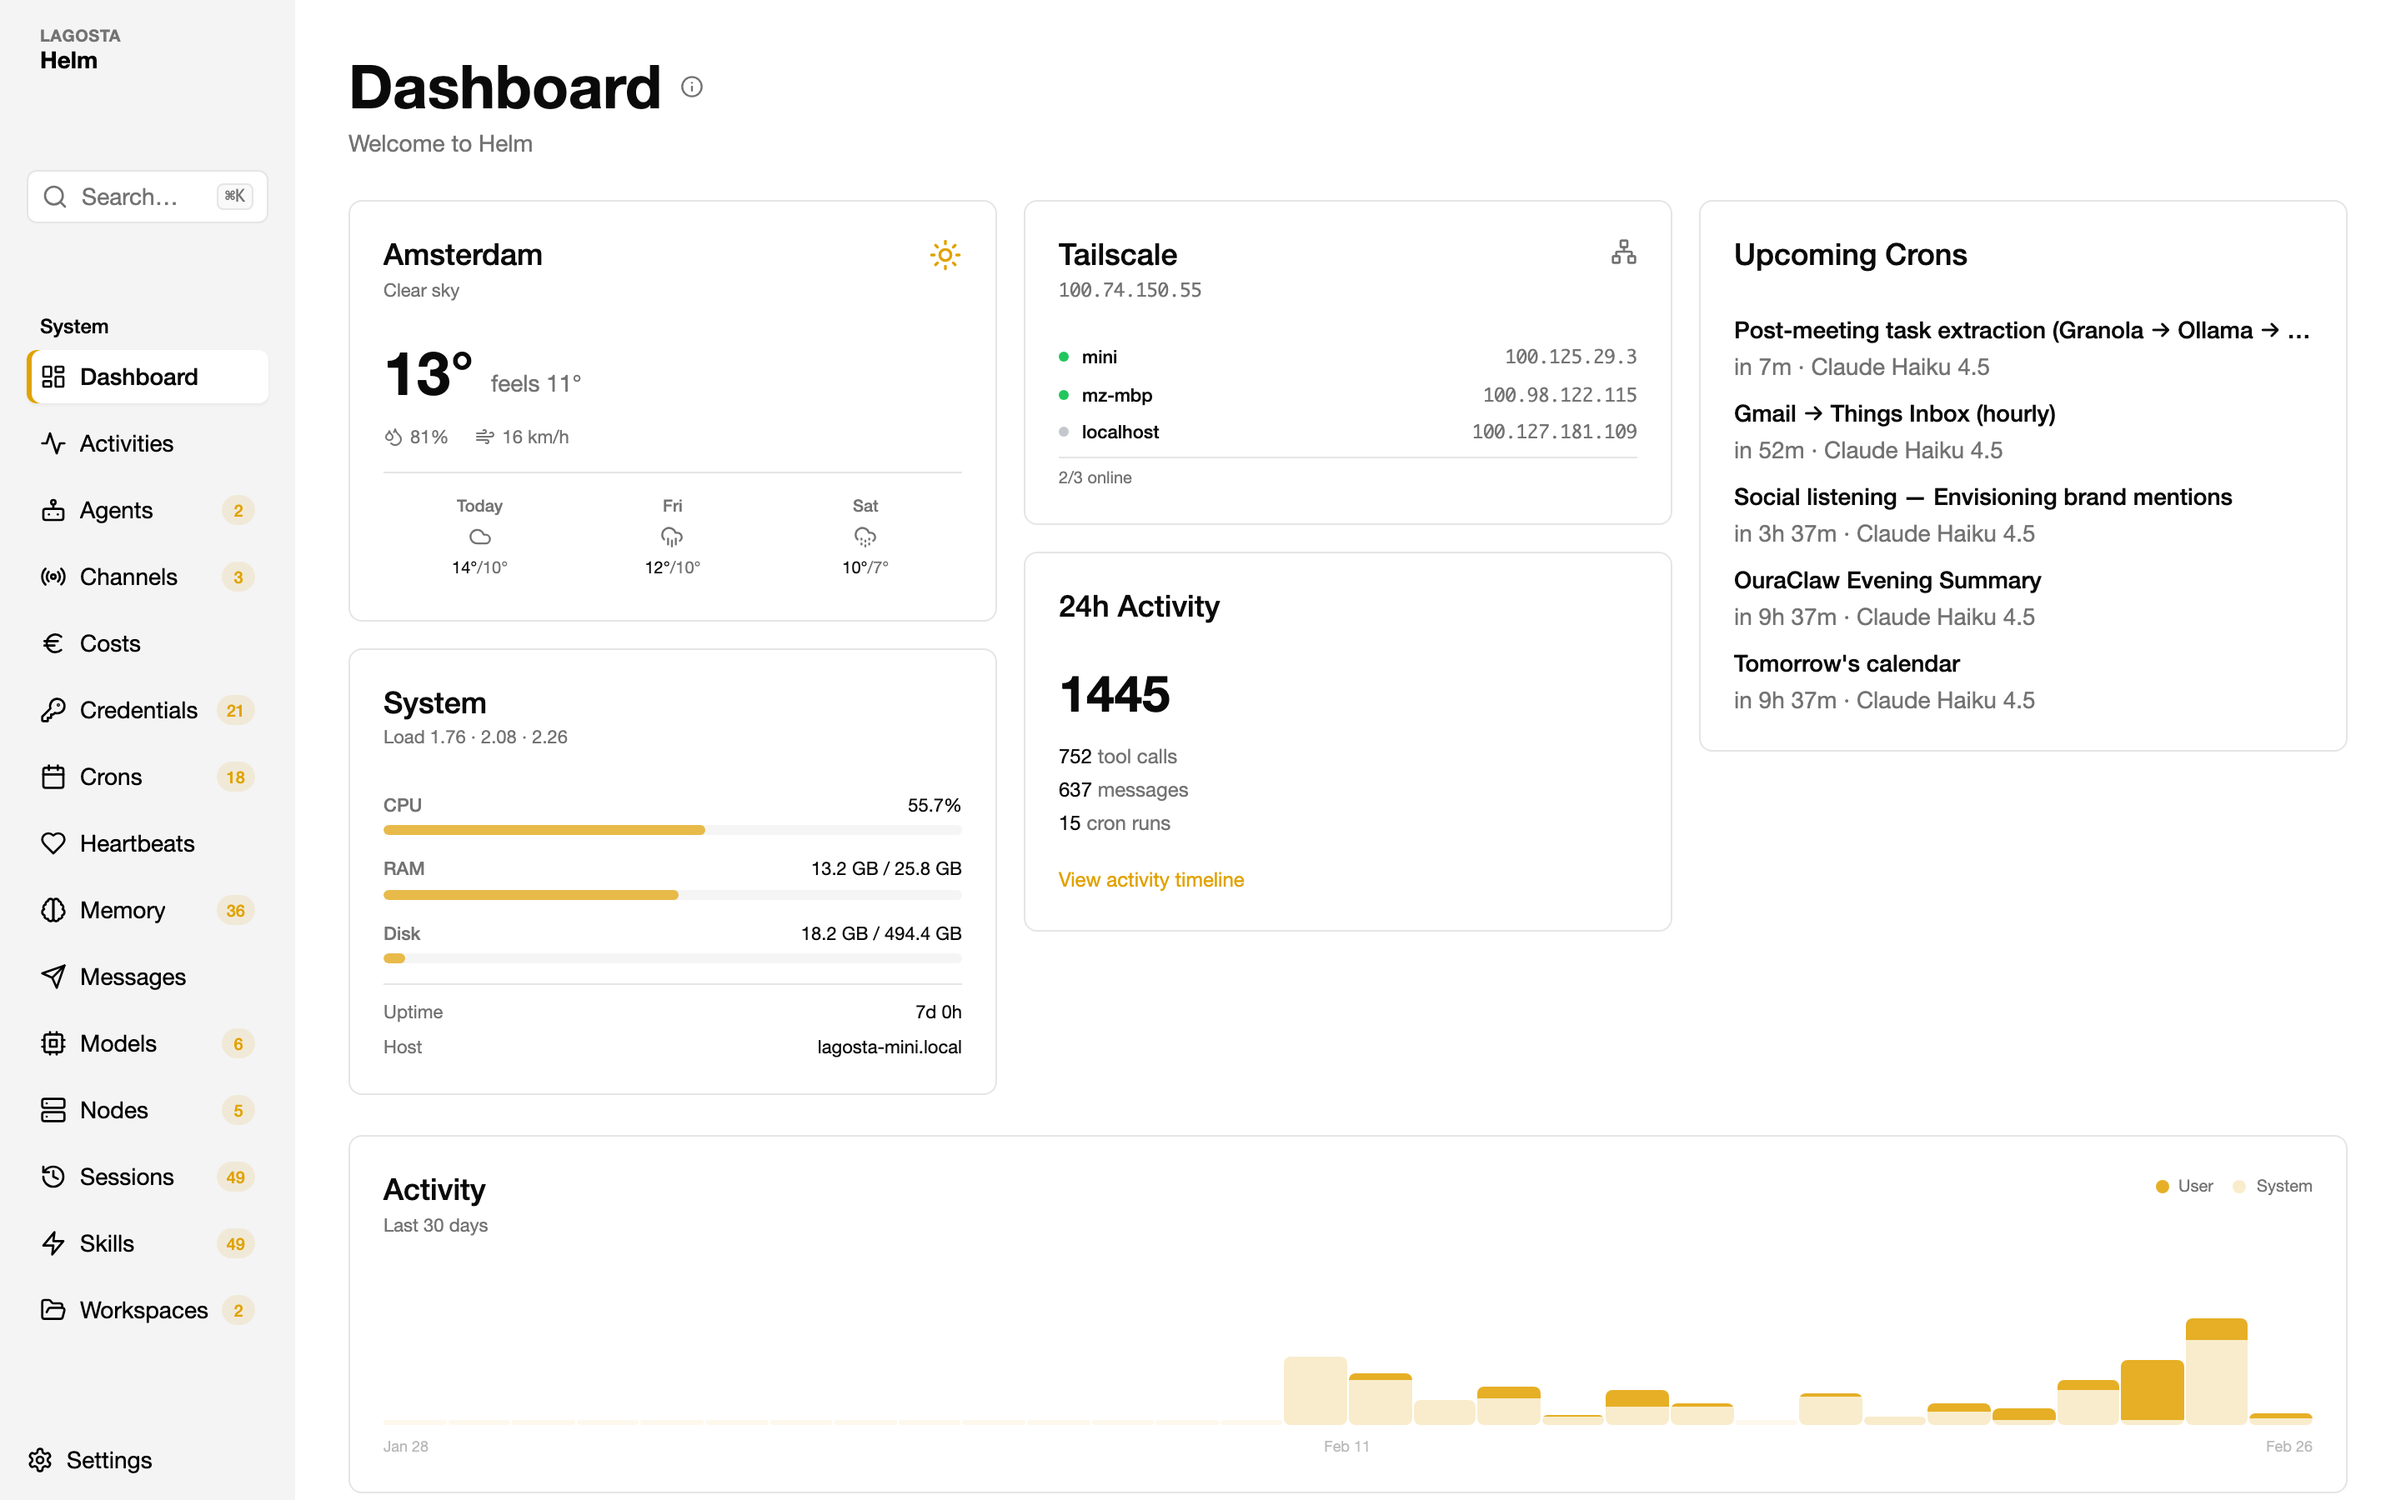
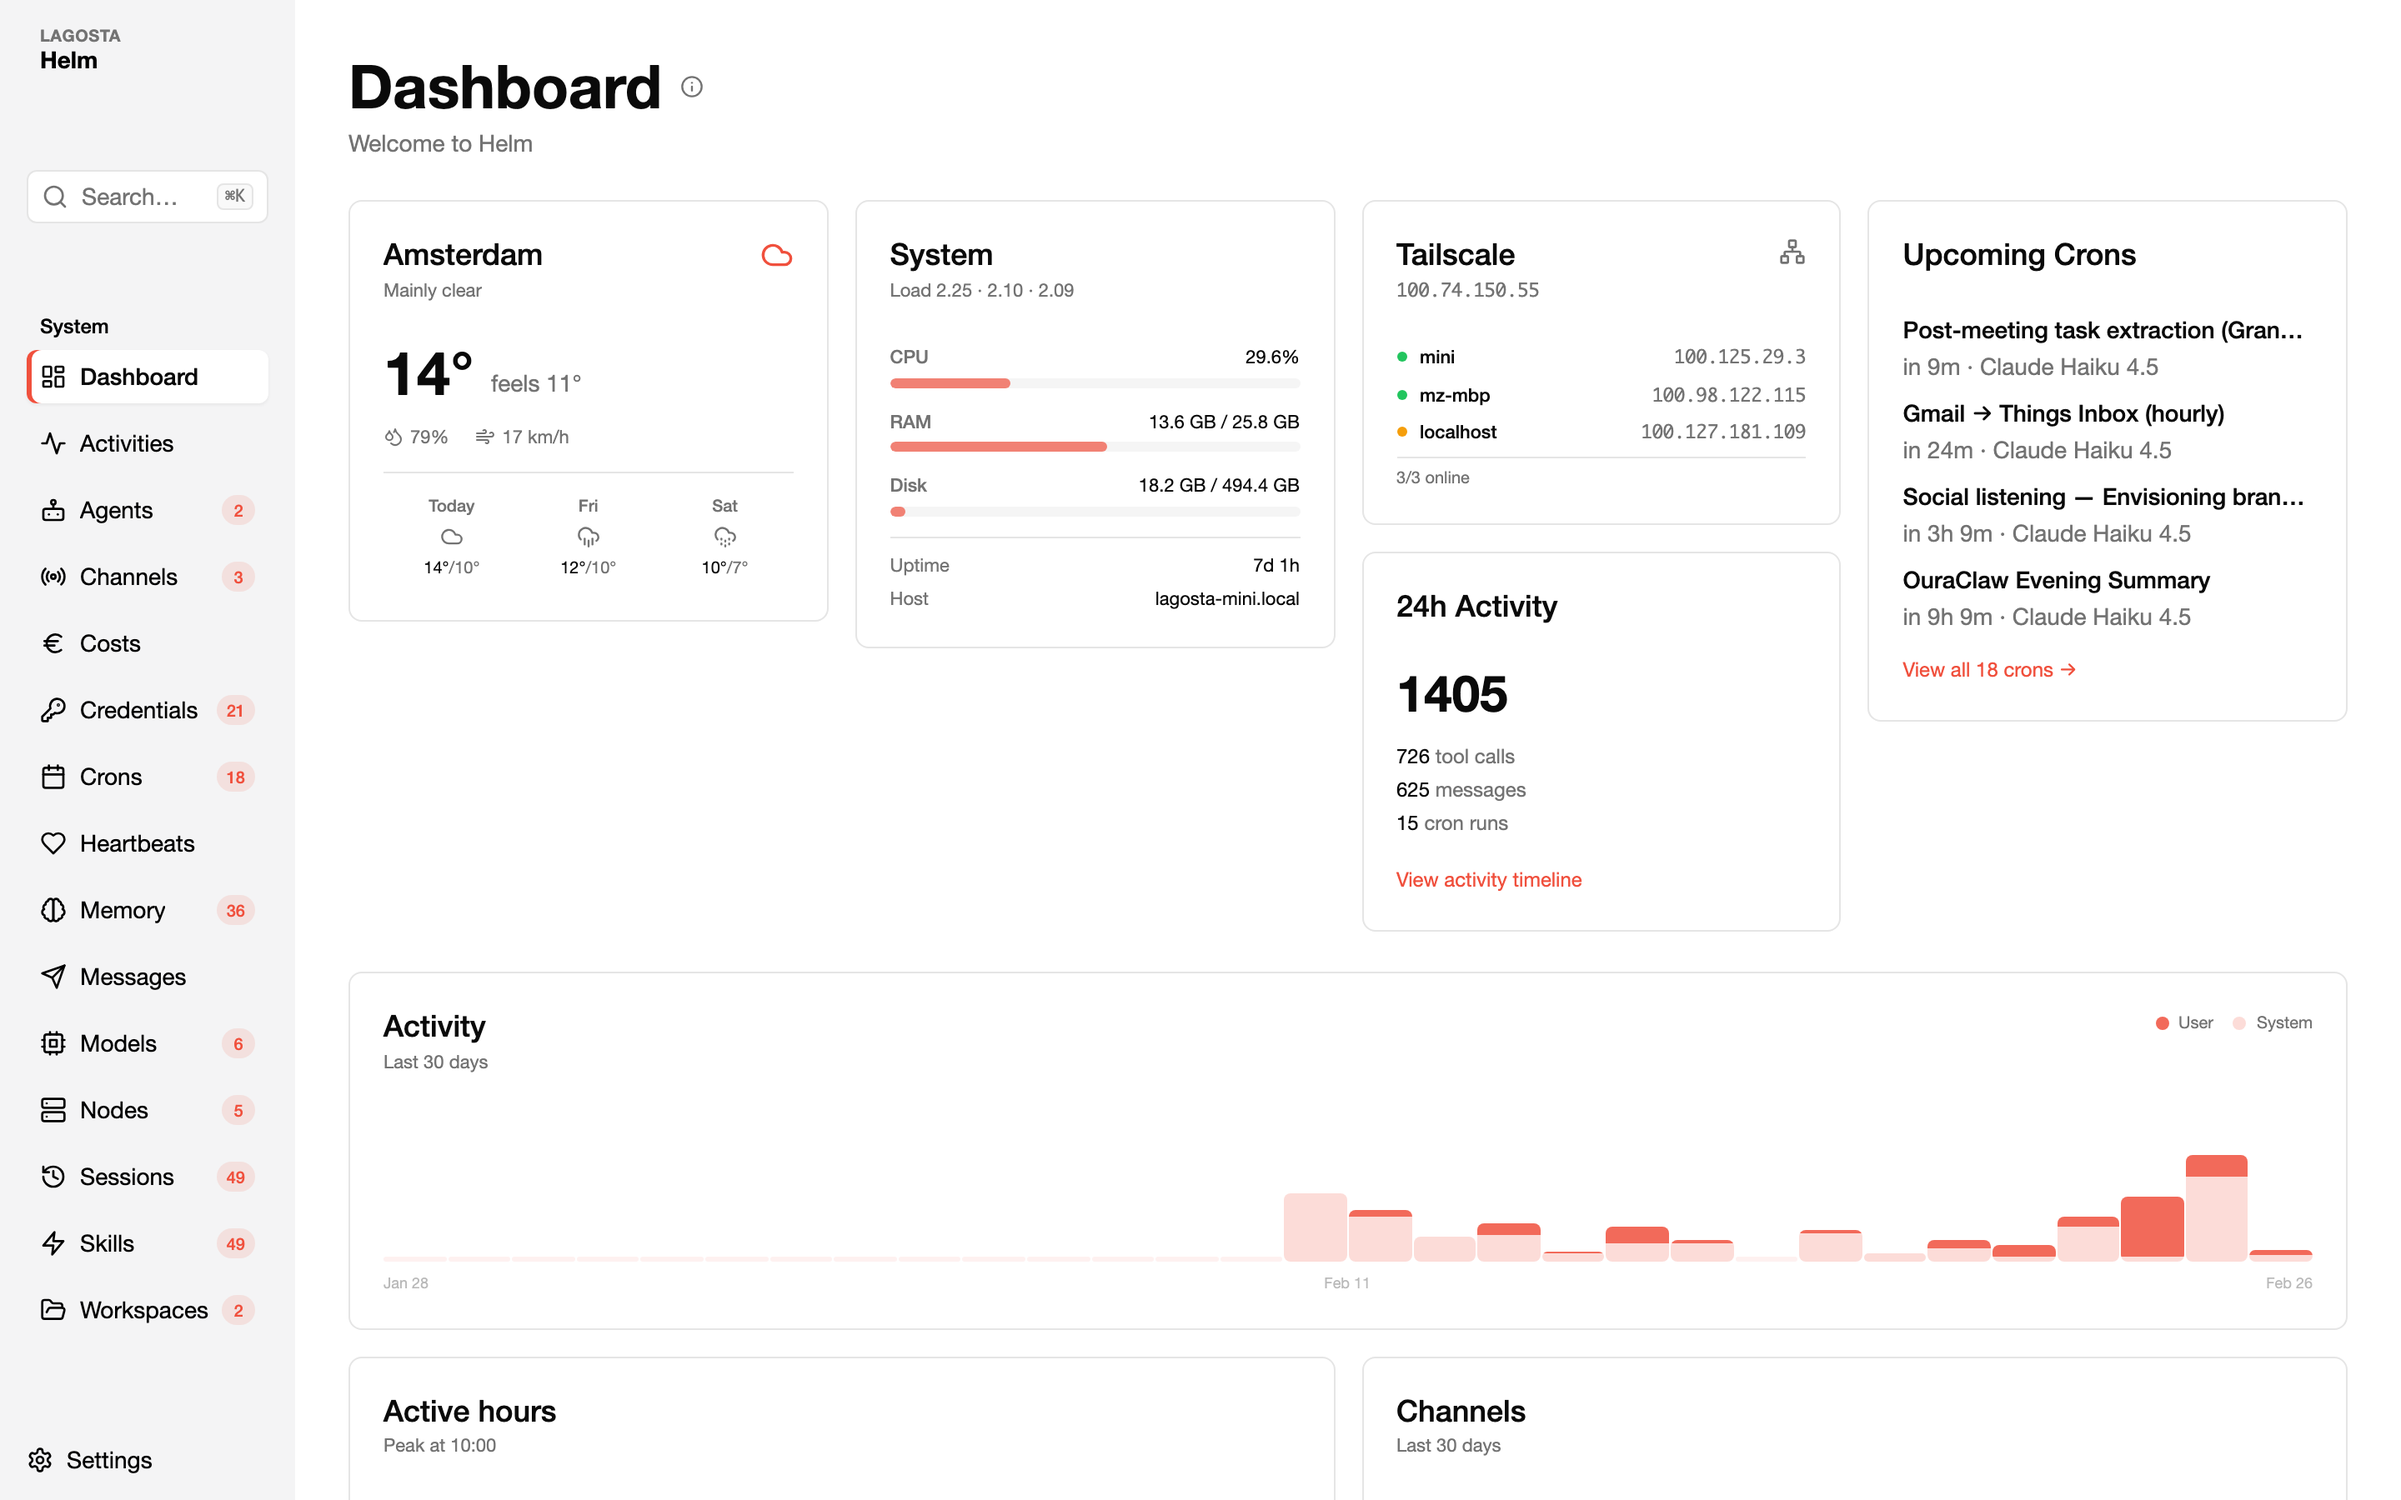
Dashboard: dense masonry, card truncation limits
- Masonry columns: sm:2 lg:3 xl:4 for dense packing
- UpcomingCrons: show max 4 with 'view all' link to /crons
- Tailscale: show max 4 peers with '+N more' indicator
- All cards are 1-column width (no spanning)

diff --git a/pages/index.tsx b/pages/index.tsx
@@ -233,7 +233,7 @@ function SystemCard() {
               </div>
               <div className="flex justify-between text-[11px]">
                 <span className="text-muted-foreground">Host</span>
-                <span className="truncate ml-4 text-right">{metrics.hostname}</span>
+                <span className="truncate ml-4 text-right" title={metrics.hostname}>{metrics.hostname}</span>
               </div>
             </div>
           </>
@@ -285,7 +285,7 @@ function TailscaleCard() {
 
         {ts && (
           <div className="space-y-1.5">
-            {ts.peers.map(peer => (
+            {ts.peers.slice(0, 4).map(peer => (
               <div key={peer.ip} className="flex items-center gap-2 text-[11px]">
                 {/* Status dot */}
                 <span
@@ -303,6 +303,11 @@ function TailscaleCard() {
                 <span className="font-mono text-muted-foreground shrink-0">{peer.ip}</span>
               </div>
             ))}
+            {ts.peers.length > 4 && (
+              <p className="text-[10px] text-muted-foreground">
+                +{ts.peers.length - 4} more nodes
+              </p>
+            )}
             <p className="text-[10px] text-muted-foreground pt-1 border-t border-border">
               {ts.online}/{ts.peers.length} online
             </p>
@@ -391,8 +396,10 @@ function UpcomingCronsCard() {
 
   const upcoming = tasks
     .filter(task => task.type === "cron" && task.enabled && !!task.nextRunAtMs && task.nextRunAtMs > Date.now())
-    .sort((a, b) => (a.nextRunAtMs ?? 0) - (b.nextRunAtMs ?? 0))
-    .slice(0, 5);
+    .sort((a, b) => (a.nextRunAtMs ?? 0) - (b.nextRunAtMs ?? 0));
+  
+  const showAll = upcoming.length > 4;
+  const visible = upcoming.slice(0, 4);
 
   return (
     <Card>
@@ -413,7 +420,7 @@ function UpcomingCronsCard() {
         )}
         {!error && upcoming.length > 0 && (
           <div className="space-y-2">
-            {upcoming.map(task => (
+            {visible.map(task => (
               <div key={task.id} className="text-xs sm:text-sm space-y-0.5">
                 <p className="font-medium truncate" title={task.name}>{task.name}</p>
                 <p className="text-muted-foreground truncate">
@@ -423,6 +430,11 @@ function UpcomingCronsCard() {
                 </p>
               </div>
             ))}
+            {showAll && (
+              <Link href="/crons" className="text-xs hover:underline" style={{ color: "var(--theme-accent)" }}>
+                View all {upcoming.length} crons →
+              </Link>
+            )}
           </div>
         )}
       </CardContent>
@@ -453,11 +465,9 @@ export default function Dashboard() {
           <p className="text-xs sm:text-sm text-muted-foreground mt-1">Welcome to Helm</p>
         </div>
 
-        {/* Masonry-style dashboard cards */}
+        {/* Dense masonry dashboard cards */}
         {cards.length > 0 ? (
-          <div
-            className="columns-1 sm:columns-2 lg:columns-3 gap-4 space-y-4"
-          >
+          <div className="columns-1 sm:columns-2 lg:columns-3 xl:columns-4 gap-4 space-y-4">
             {cards.map(card => (
               <div key={card.key} className="break-inside-avoid mb-4">{card.node}</div>
             ))}

diff --git a/components/SettingsModal.tsx b/components/SettingsModal.tsx
@@ -312,16 +312,20 @@ export function SettingsModal({ open, onOpenChange, menuItems }: Props) {
           </div>
         </div>
 
+        <Divider />
+
         {/* About */}
         <div className="space-y-4">
           <SectionLabel>About</SectionLabel>
-          <p className="text-xs text-muted-foreground">
-            Helm is an observability dashboard for{" "}
-            <a href="https://github.com/openclaw/openclaw" target="_blank" rel="noopener noreferrer" className="underline text-foreground hover:text-primary">OpenClaw</a>.
-          </p>
-          <p className="text-xs text-muted-foreground">
-            <a href="https://github.com/michellzappa/helm" target="_blank" rel="noopener noreferrer" className="underline hover:text-primary">Source on GitHub</a>
-          </p>
+          <div className="py-3 space-y-2">
+            <p className="text-xs text-muted-foreground">
+              Helm is an observability dashboard for{" "}
+              <a href="https://github.com/openclaw/openclaw" target="_blank" rel="noopener noreferrer" className="underline text-foreground hover:text-primary">OpenClaw</a>.
+            </p>
+            <p className="text-xs text-muted-foreground">
+              <a href="https://github.com/michellzappa/helm" target="_blank" rel="noopener noreferrer" className="underline hover:text-primary">Source on GitHub</a>
+            </p>
+          </div>
         </div>
       </DialogContent>
     </Dialog>
